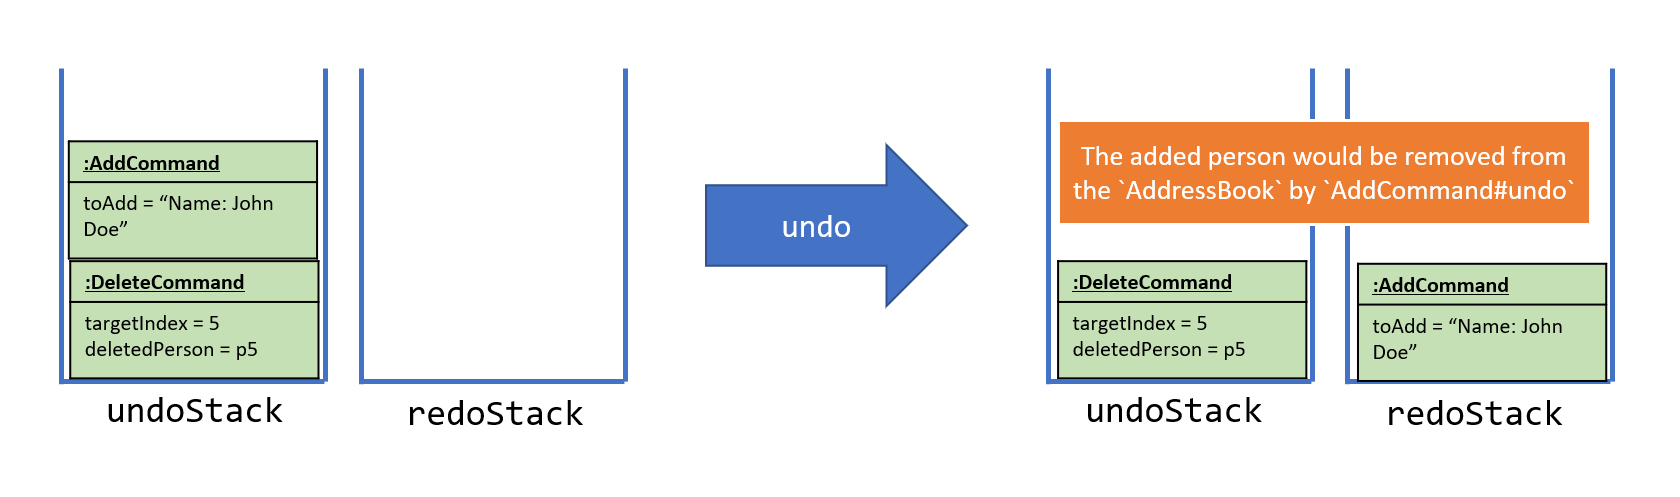
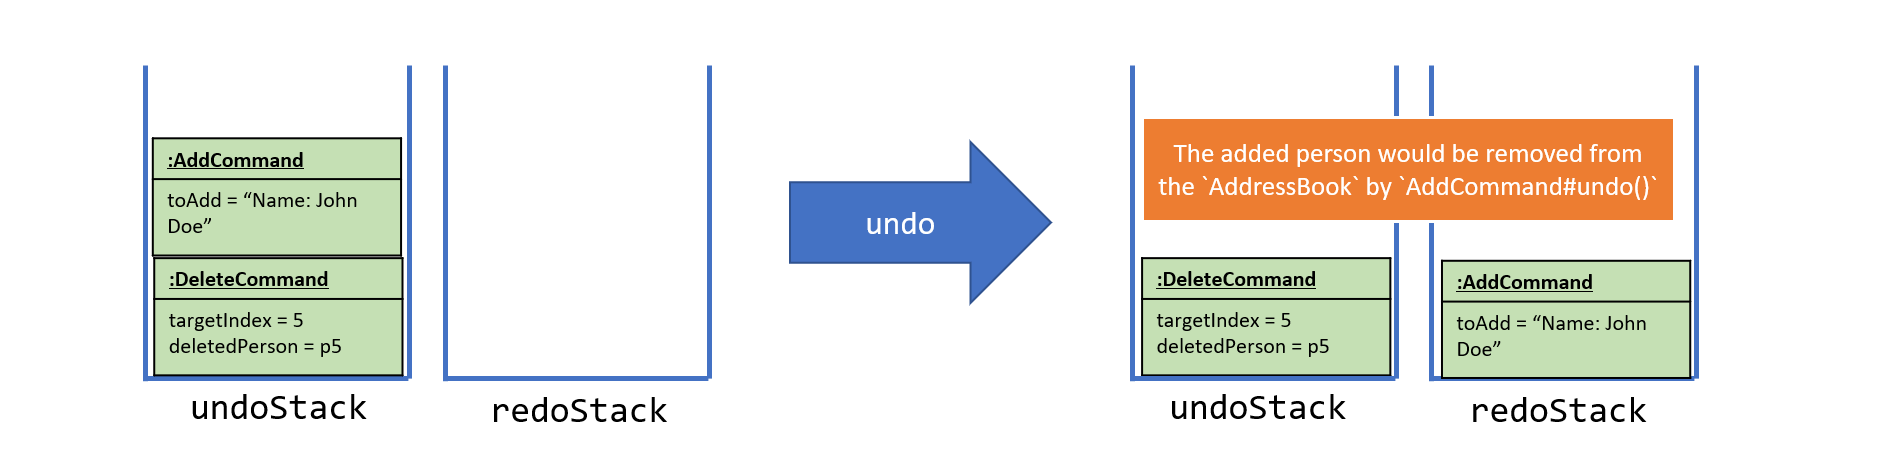
Fees Calc and minor amendments to undo

Changed region(s): [[0.031, 0.1502, 0.9595, 0.9013]]

diff --git a/docs/DeveloperGuide.md b/docs/DeveloperGuide.md
@@ -410,7 +410,7 @@ With `UndoableCommand`, the commands that are undoable are implemented similarly
 Step 1. Suppose that a user has just launched our application. The `undoRedoStack` will be empty at the beginning.
 
 Step 2. The user then executes an `UndoableCommand` which modifies the existing `Model` as per the definition of an `UndoableCommand`. 
-The specific `UndoableCommand` called will process the command during the method call `UndoableCommand#executeUndoableCommand` so that it can undo itself.
+The specific `UndoableCommand` called will process the command during the method call `UndoableCommand#executeUndoableCommand()` so that it can undo itself.
 
 For instance, the executed command is `delete 5`, to delete the 5th person in the `AddressBook` that resides in the `Model`. 
 The deleted Person, referred to in the Figure I3 as `p5` is stored in the `deletedPerson` field in `DeleteCommand`. 
@@ -438,7 +438,7 @@ Upon executing `add` command, `add` command that has been processed such that it
 Step 4. The user now decides that adding the person was a mistake, and decides to undo that action using `undo`.
 
 `UndoRedoStack` will pop the most recent command out of the `undoStack` and push it to the `redoStack`. For instance, the popped command in this example would be `add`,
-`add` would the call its own `AddCommand#undo` to undo itself.
+`add` would the call its own `AddCommand#undo()` to undo itself.
 
 ![UndoRedoStackAfterUndo](images/UndoRedoStack1UndoDiagram.png) 
 
@@ -602,11 +602,11 @@ When the user launches TAB, in `MainApp#initModelManager()`, the `FeesCalculator
 *Figure I.6.1: Sequence diagram of Update Fees.*
 
 In `initModelManager()`, after the `model` was built from storage, `FeesCalculator#UpdateAllLessonOutstanding()` is called to update the lesson fees. For each person in `addressBook`, a new `updatedPerson` would be created.
-When creating the new `updatedPerson`, for each lesson that the person has, `updateLessonOutstandingFeesField()` will update all the outstanding fields using `lastUpdatedDate` and the current local date time.  
+When creating the new `updatedPerson`, for each lesson that the person has, `updateLessonOutstandingFeesField()` will update all the outstanding fees fields using `lastUpdatedDate` and the current local date time.  
 
 The following is the logic of `FeesCalculator` to decide whether to update the specific lesson:
-* To construct a `FeesCalculator` object, the `lastUpdatedDate` and `LocalDateTime.now()` are required. 
-* `FeesCalculator` would count the number of lessons that have ended between `lastUpdatedDate` and `currentDateTime` which is simply `LocalDateTime.now()` at the time of initialization.
+* To construct a `FeesCalculator` object, the `lastUpdatedDate` and `currentDateTime`, which is simply the `LocalDateTime.now()`, are required. 
+* `FeesCalculator` would count the number of lessons that have ended between `lastUpdatedDate` and `currentDateTime` at the time of initialization.
   * **For Makeup Lessons:** 
     * Use `Date#getLocalDate()` to get the date of the lesson and `TimeRange#getEnd()` to get the end time of the lesson. Then check for these conditions:
       * Lesson end date and time is after `lastUpdatedDate`.
@@ -614,19 +614,22 @@ The following is the logic of `FeesCalculator` to decide whether to update the s
       
     If both conditions are true, update the fees by adding the cost of the lesson to the current outstanding fees.
   * **For Recurring Lessons:** 
-    * Find the `earlierStartDate` by comparing `startDate` of lesson and `lastUpdatedDate`. This is to handle cases where lesson starts after the last time TAB was launched.
-    * Find the `laterEndDate` by comparing `endDate` of lesson and `currentDateTime`. This is to handle cases where lesson ends before the current launching of TAB.
-    * Shift the `earlierStartDate` to the week before `earlierStartDate` and to the day of the week which the lesson falls on. Similarly, shift the `laterEndDate` to the week after `laterEndDate` and the day of the week which the lesson falls on.
-    This allows us to count the number of the day of the week in which the lesson falls on has passed, by treating the days which the lesson falls on as intervals.
-    * Check if any of the cancelled dates falls between `earlierStartDate` and `laterEndDate`. If true, deduct the number of lessons by 1.
+    * Find the `laterStart` by comparing `startDate` of lesson and `lastUpdatedDate`. This is to handle cases where lesson starts after the last time TAB was launched.
+    * Find the `earlierEnd` by comparing `endDate` of lesson and `currentDateTime`. This is to handle cases where lesson ends before the current launching of TAB.
+    * Calculate the number of lessons that have passed between the `laterStart` and `earlierEnd`.
+    * Check if any of the cancelled dates falls between `laterStart` and `earlierEnd`. If true, deduct the number of lessons accordingly.
     * Check for the cases in which the day of `lastUpdatedDate` and `currentDateTime` falls on the day of the lesson and deduct accordingly.
 * Multiply the number of lessons calculated with the cost per lesson to get the amount to be added to `OutstandingFees` field.
 
-//Activity diagram!!
+![UpdateFeesActivityDiagram](images/UpdateFeesActivityDiagram.png)
+
+*Figure I.6.2: Activity Diagram of Update Fees.*
 
 This means that once the outstanding fees have been updated, any changes to fields that would affect outstanding fees (e.g. start date, end date, cancelling and uncancelling lessons in the past, change in lesson rates) will not be accounted for.
 
 #### Payment
+
+
 
 --------------------------------------------------------------------------------------------------------------------
 
